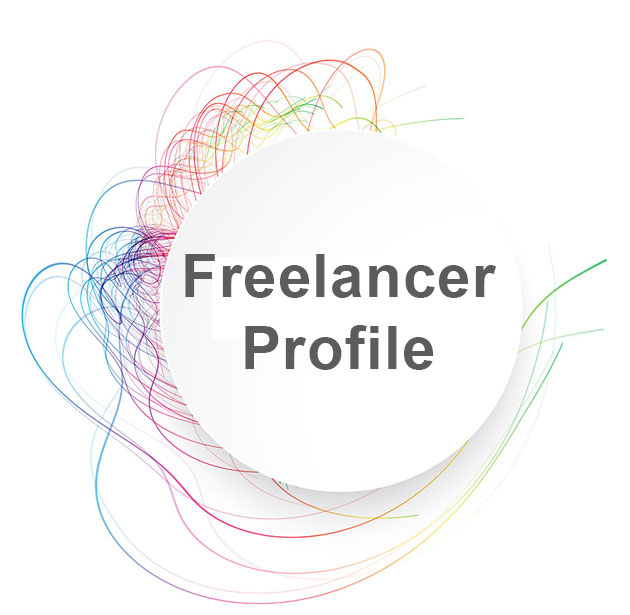
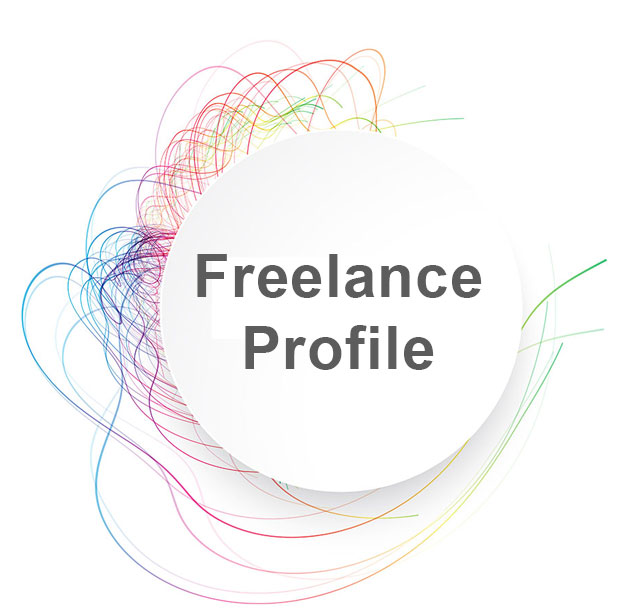
style changes

Changed region(s): [[0.2714, 0.4016, 0.7841, 0.4943]]

diff --git a/assets/css/header.css b/assets/css/header.css
@@ -2205,7 +2205,7 @@ footer > .container {
     padding-right:0;*/
 }
 footer ul{
-    float:right;
+    /*float:right;*/
     padding-left:0;
     margin-bottom:0;
 }

diff --git a/assets/css/style-main.css b/assets/css/style-main.css
@@ -208,6 +208,7 @@ header .logo a:focus, header .logo a:hover {
 }
 header h2{
 	margin:0; 
+	text-align:left;
 
 }
 .header-login .input{		

diff --git a/application/front/views/login_footer.php b/application/front/views/login_footer.php
@@ -16,7 +16,7 @@ if ($this->uri->segment(1) == '' || $this->uri->segment(1) == 'main') {
                     <ul class="footer-ul">
 						<li><a title="Sitemap" href="<?php echo base_url('how-to-use-job-profile-in-aileensoul'); ?>" target="_blank">Job Profile</a></li>
 						<li><a title="Sitemap" href="<?php echo base_url('how-to-use-recruiter-profile-in-aileensoul'); ?>" target="_blank">Recruiter Profile</a></li>
-						<li><a title="Sitemap" href="<?php echo base_url('how-to-use-freelance-profile-in-aileensoul'); ?>" target="_blank">Freelancer Profile</a></li>
+						<li><a title="Sitemap" href="<?php echo base_url('how-to-use-freelance-profile-in-aileensoul'); ?>" target="_blank">Freelance Profile</a></li>
 						<li><a title="Sitemap" href="<?php echo base_url('how-to-use-business-profile-in-aileensoul'); ?>" target="_blank">Business Profile</a></li>
 						<li><a title="Sitemap" href="<?php echo base_url('how-to-use-artistic-profile-in-aileensoul'); ?>" target="_blank">Artistic Profile</a></li>
 						
